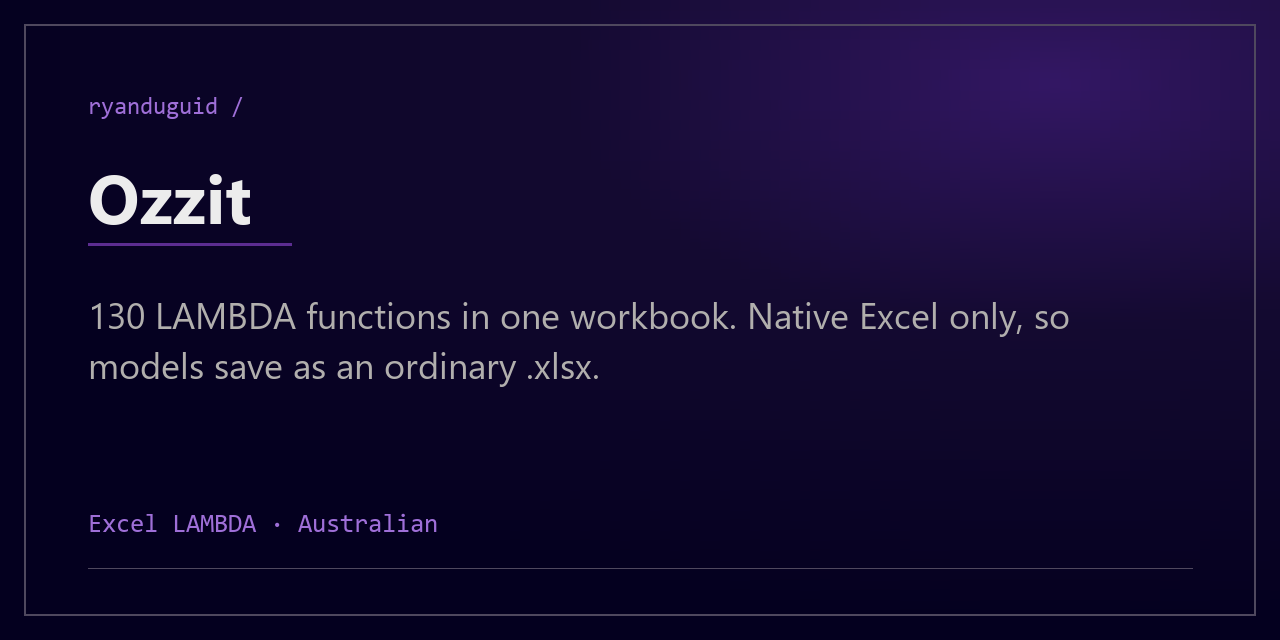
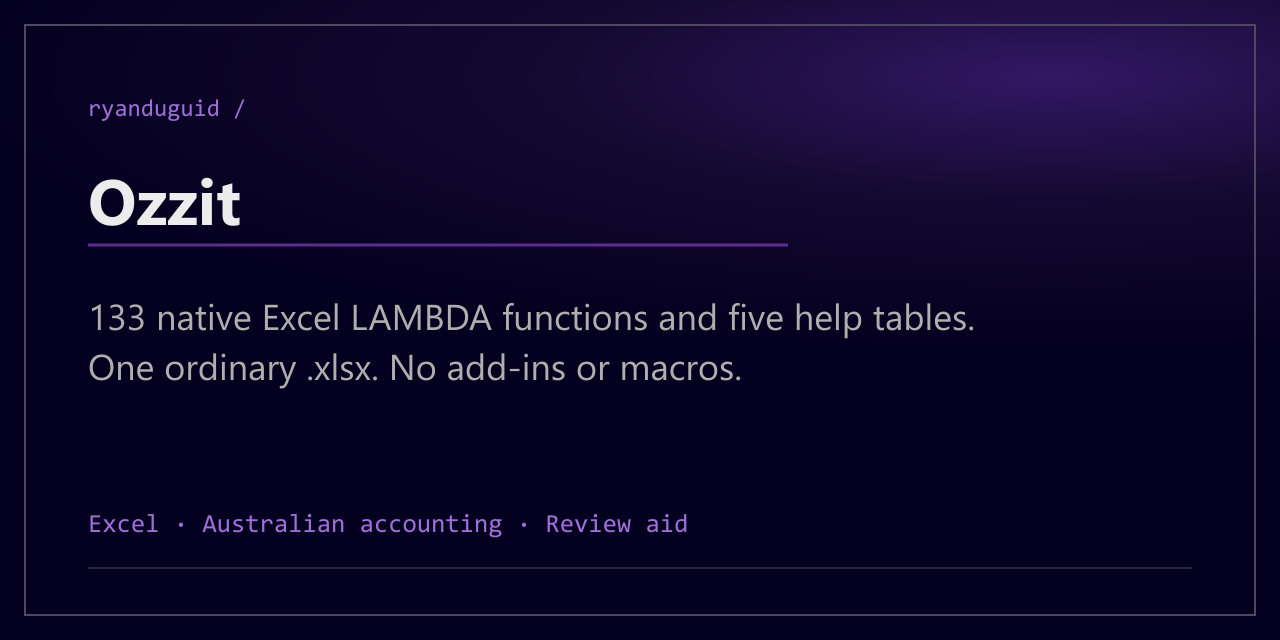
Align Ozzit social preview with workbook function count (#90)
The live GitHub share card says 134 functions. Replace the repository
preview with a card stating 133 native Excel LAMBDA functions and five
help tables, matching AGENTS.md, README.md and the workbook at
7171e5418317e02d9621028d4f705c16fe3ba852.

The 138 functions.csv entries comprise those 133 functions and five help
tables. The workbook and CSV are unchanged. Add the editable SVG and
rendering provenance alongside the PNG.

Verification on Python 3.13:
```text
python -m ruff check .
python -m mypy --config-file mypy.ini
python tools/verify_workbook.py ozzit.xlsx
python tools/verify_sources.py ozzit.xlsx src
python tools/verify_signatures.py src
python tools/verify_previous_names.py functions.csv
python tools/verify_index.py ozzit.xlsx src functions.csv
python tools/verify_afe.py ozzit.xlsx src
python -m unittest discover -s tools/tests -v
git diff --check
```
All passed: 211 tests with one existing skip. Rendered with Sharp
0.35.4, verified 1280 × 640 dimensions and visually checked the text.

Native Excel recalculation and the other Python versions were not rerun
locally for this image-only change. GitHub's uploaded social preview
still needs a separate settings upload after review; merging this PR
alone does not change the live card.

diff --git a/.github/social-preview.md b/.github/social-preview.md
@@ -1,0 +1,23 @@
+# Social preview
+
+The 1280 × 640 PNG is rendered from [social-preview.svg](social-preview.svg).
+The SVG retains the existing repository card's purple palette, border and
+type hierarchy. It contains text and geometry only.
+
+Copy source: AGENTS.md and README.md at commit 7171e5418317e02d9621028d4f705c16fe3ba852; functions.csv has 138 named entries, including five help tables.
+Checked 11 September 2026. No package version, accounting rule or source-review
+date changes in this card.
+
+Render with Node.js and Sharp 0.35.4 available in a development environment,
+using Windows Segoe UI and Consolas fonts:
+
+```bash
+node -e "require('sharp')('.github/social-preview.svg').png().toFile('.github/social-preview.png')"
+```
+
+Open the PNG and check its text and 1280 × 640 dimensions before use. Font
+substitution on another platform can change its appearance.
+
+GitHub stores its social preview separately from repository files. After
+review, upload [social-preview.png](social-preview.png) under Settings,
+General, Social preview. Merging this file does not update that setting.
